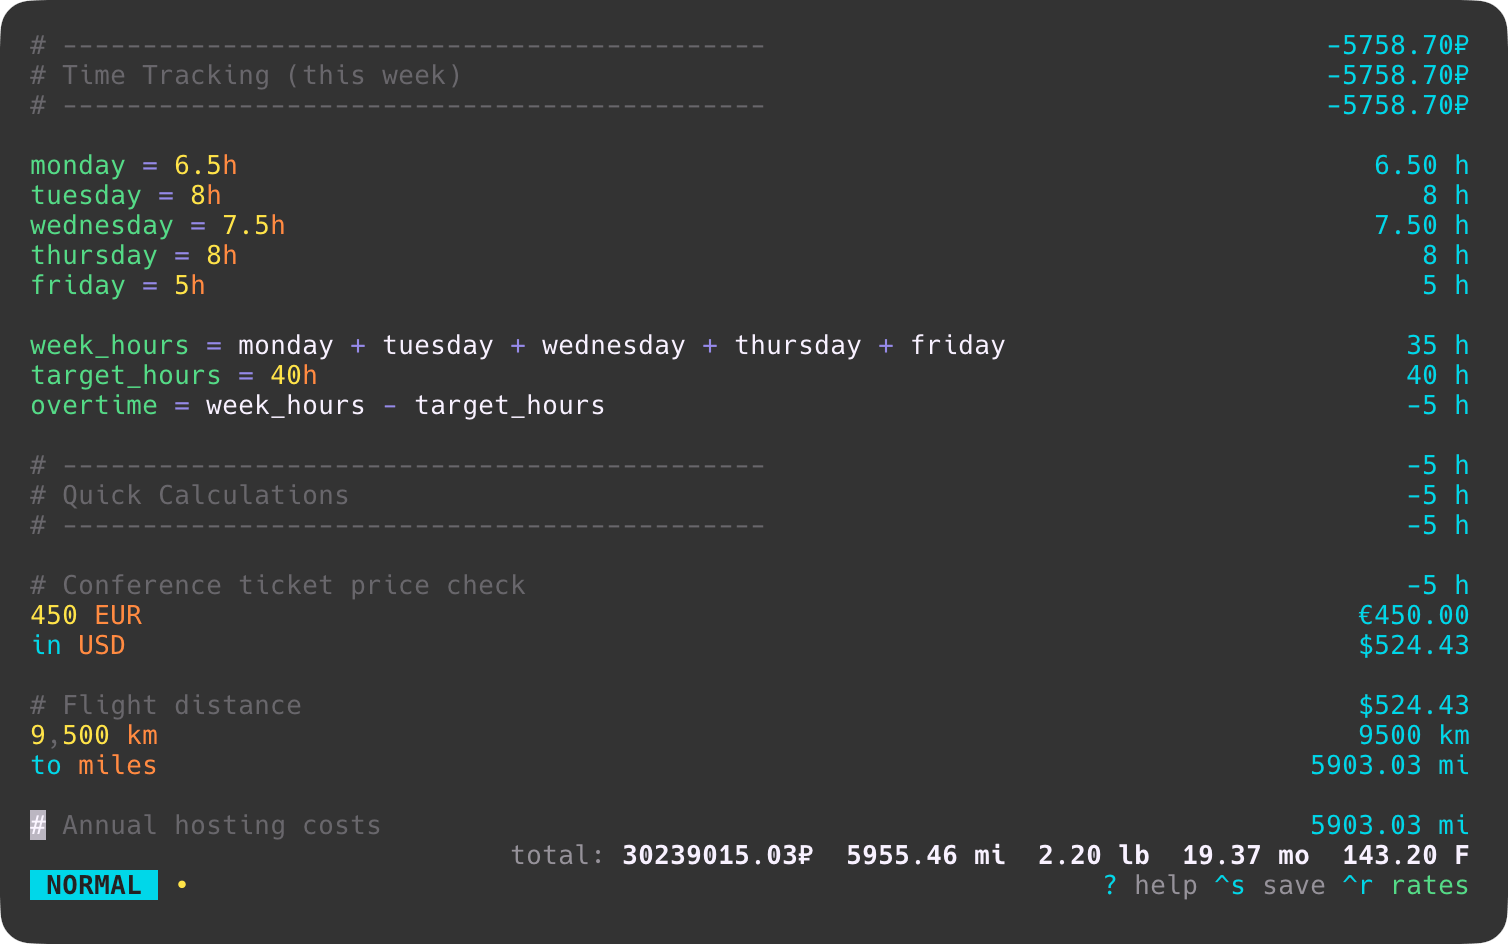
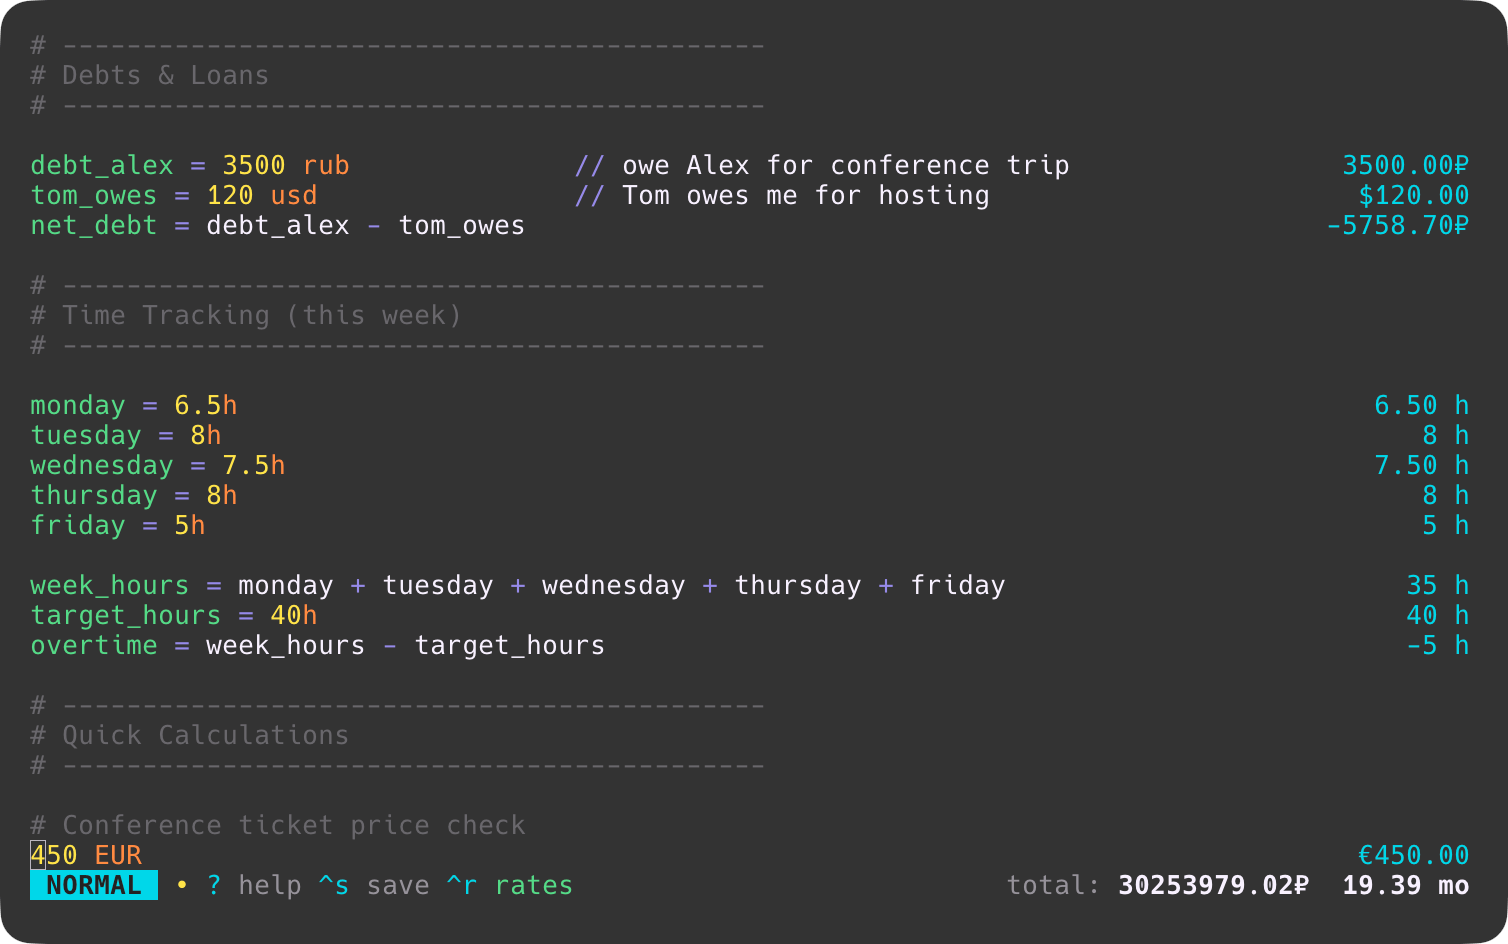
fix: comments no longer inherit previous result, updated screenshots

diff --git a/crates/numr-core/src/lib.rs b/crates/numr-core/src/lib.rs
@@ -121,6 +121,12 @@ impl Engine {
     /// Try continuation parsing first, fall back to normal parsing
     /// Returns (result, whether_continuation_succeeded)
     fn eval_with_continuation(&mut self, input: &str) -> (Value, bool) {
+        // Skip continuation for comments
+        let trimmed = input.trim_start();
+        if trimmed.starts_with('#') || trimmed.starts_with("//") {
+            return (self.parse_and_eval(input), false);
+        }
+
         // Only try continuation if we have a previous result
         if self.context.get_variable("_").is_some() {
             let continued = format!("_ {}", input);
